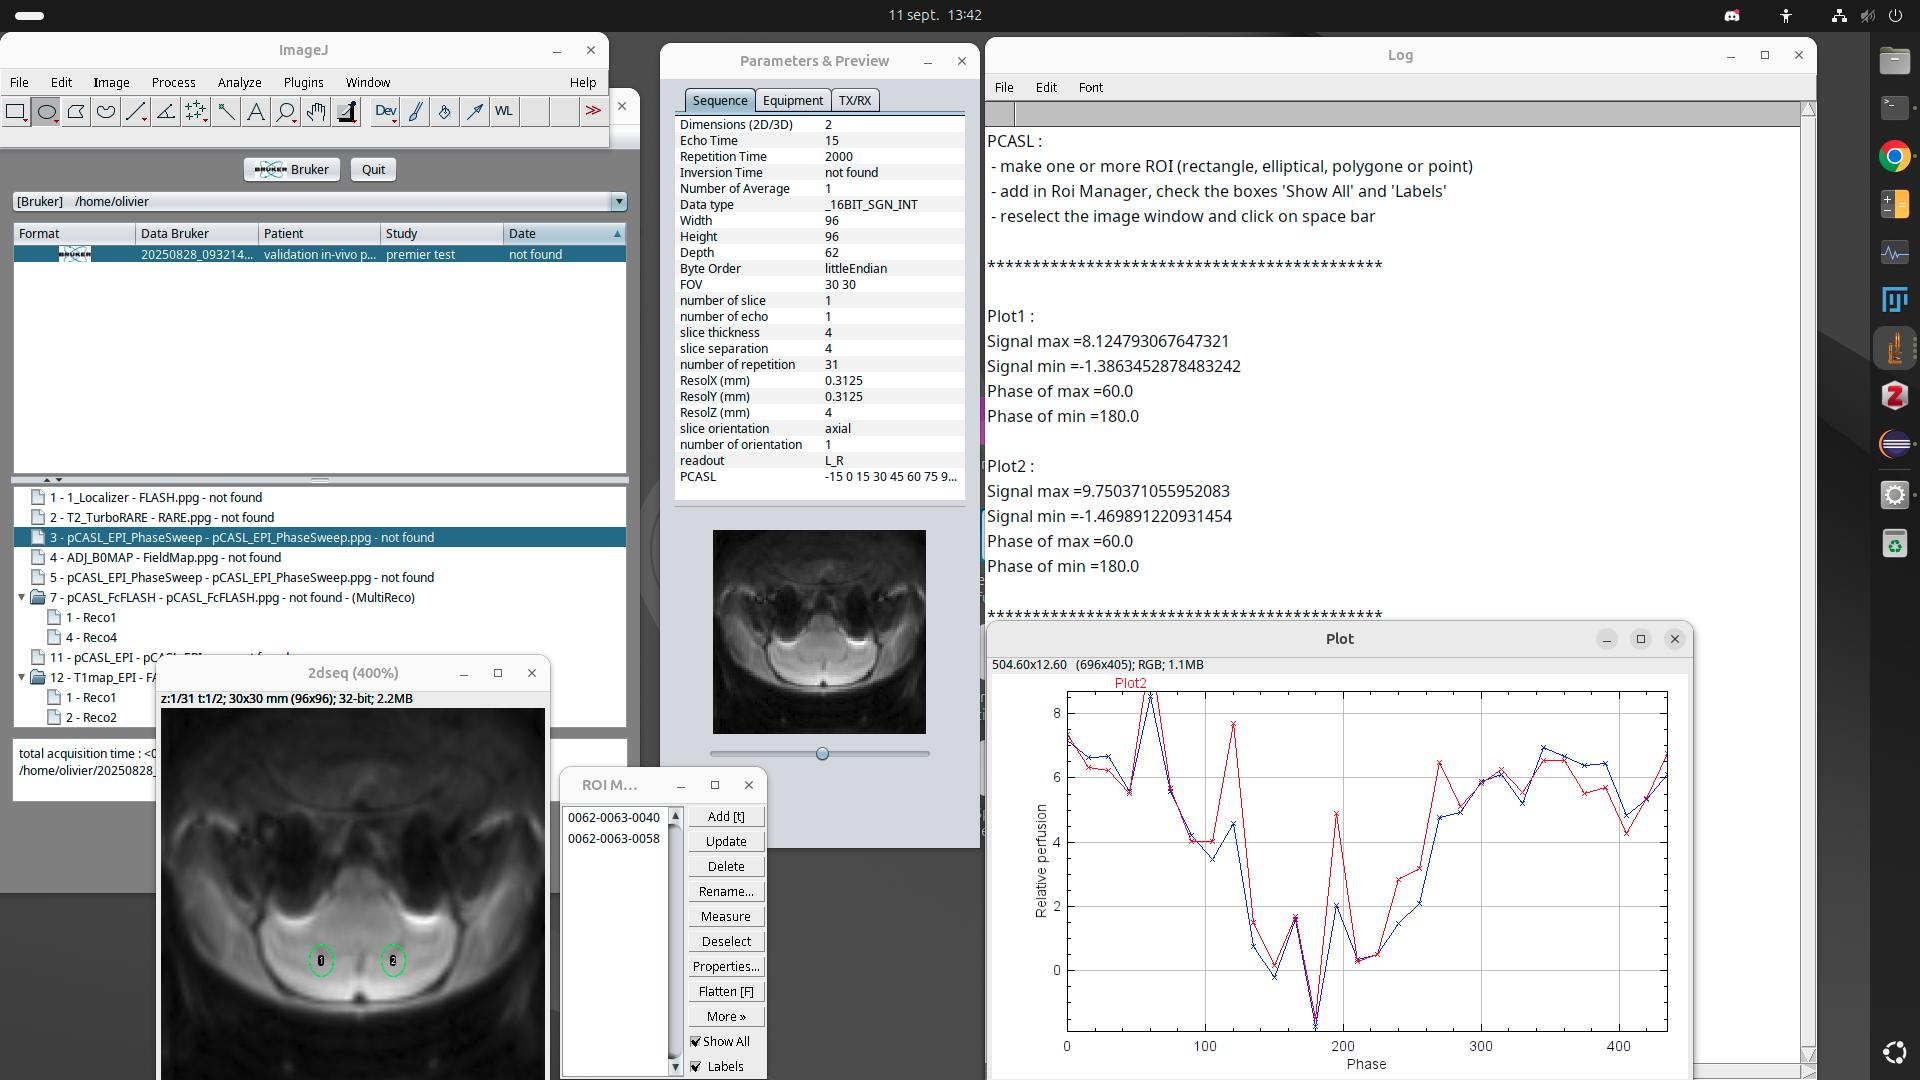
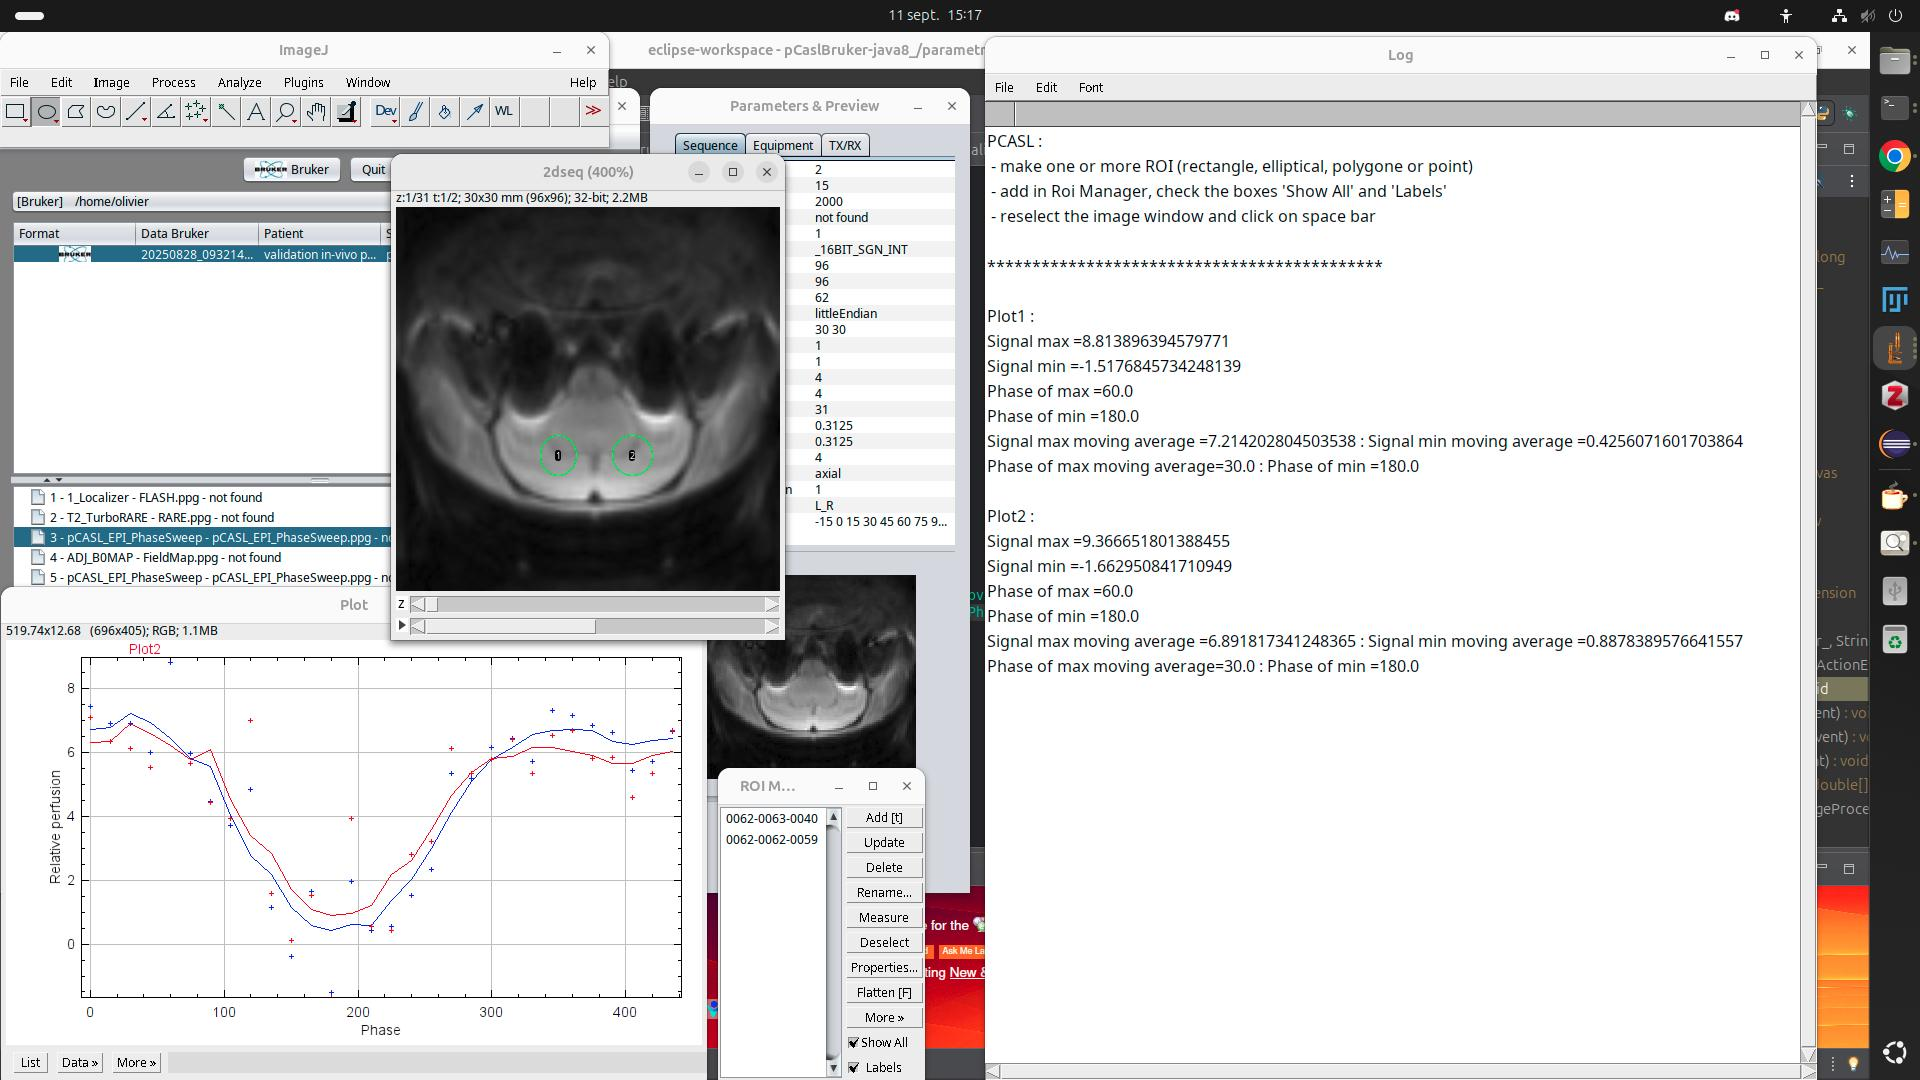
pCasl update

diff --git a/pCaslBruker-java8_/parametricCalculsp/Pcaslp.java b/pCaslBruker-java8_/parametricCalculsp/Pcaslp.java
@@ -35,7 +35,7 @@ public class Pcaslp extends AbstractAction implements KeyListener{
 	private static final long serialVersionUID = 1L;
 	private PcaslBruker_ wind;
 	private double[] x,y;
-	private double[] xoff,yoff;
+	private double[] xoff,yoff, yoff_av;
 	private ImagePlus imp;
 	private String format;
 	private ImageCanvas canvas;
@@ -102,6 +102,7 @@ public class Pcaslp extends AbstractAction implements KeyListener{
 		}
 		y = new double[x.length];
 		yoff = new double[x.length-1];
+		yoff_av = new double[x.length-1];
 		xoff = new double[x.length-1];
 
 		plotCurve = new Plot("Plot", "Phase", "Relative perfusion");
@@ -164,19 +165,19 @@ public class Pcaslp extends AbstractAction implements KeyListener{
 			yoff[a]=y[a+1];
 		}
 		
-		
+		MovingAverage mv = new MovingAverage(this.yoff, 5);
+		yoff_av = mv.getAvMo();
 		plotCurve.setColor(colors[s]);
 		plotCurve.setLineWidth(1);
-		plotCurve.addPoints(xoff, yoff,Plot.LINE);
-		plotCurve.addPoints(xoff, yoff,Plot.X);
+		plotCurve.addPoints(xoff, yoff, 5);
+		plotCurve.addPoints(xoff, yoff_av, 2);
 		plotCurve.addLabel(0, 0, space+"Plot"+(s+1));
 		space=space+"            ";
-		
-		
 		IJ.log("\nPlot"+(s+1)+" : ");
 		IJ.log("Signal max ="+ymax+"\n"+"Signal min ="+ymin);
 		IJ.log("Phase of max ="+xmax+"\n"+"Phase of min ="+xmin);
-		
+	    IJ.log("Signal max moving average =" + mv.getMaxMin()[0][1] + " : " + "Signal min moving average =" + mv.getMaxMin()[1][1]);
+	    IJ.log("Phase of max moving average=" + xoff[(int)mv.getMaxMin()[0][0]] + " : " + "Phase of min =" + xoff[(int)mv.getMaxMin()[1][0]]);		
 		}				
 		
 		if (pwin==null) {

diff --git a/pCaslBruker-java8_/parametricCalculsp/MovingAverage.java b/pCaslBruker-java8_/parametricCalculsp/MovingAverage.java
@@ -1,0 +1,50 @@
+package parametricCalculsp;
+
+public class MovingAverage {
+  private double sum = 0.0D;
+  
+  private double[] y_av;
+  
+  private double[][] max_min = new double[2][2];
+  
+  public MovingAverage(double[] yoff, int n) {
+    this.y_av = new double[yoff.length];
+    int a = n / 2;
+    for (int j = 0; j < yoff.length; j++) {
+      for (int i = 0; i < n; i++) {
+        if (j + i - a < 0) {
+          this.sum += yoff[j + i - a + yoff.length];
+        } else if (j + i - a >= yoff.length) {
+          this.sum += yoff[j + i - a - yoff.length];
+        } else {
+          this.sum += yoff[j + i - a];
+        } 
+      } 
+      this.y_av[j] = this.sum / n;
+      if (j == 0) {
+        this.max_min[0][1] = this.y_av[j];
+        this.max_min[0][0] = 0.0D;
+        this.max_min[1][1] = this.y_av[j];
+        this.max_min[1][0] = 0.0D;
+      } else {
+        if (this.y_av[j] > this.max_min[0][1]) {
+          this.max_min[0][1] = this.y_av[j];
+          this.max_min[0][0] = j;
+        } 
+        if (this.y_av[j] < this.max_min[1][1]) {
+          this.max_min[1][1] = this.y_av[j];
+          this.max_min[1][0] = j;
+        } 
+      } 
+      this.sum = 0.0D;
+    } 
+  }
+  
+  public double[] getAvMo() {
+    return this.y_av;
+  }
+  
+  public double[][] getMaxMin() {
+    return this.max_min;
+  }
+}

diff --git a/README.md b/README.md
@@ -54,6 +54,9 @@ CEST_IRM allows to trace the CEST Z-spectrum and Asymmetry profiles.
 
 # Release history
 
+    11/09/2025 : version 1.3
+        pCasl : bug with moving average fixed
+
     11/09/2025 : version 1.2
 	pCasl : first repository. Compatible with PV7.0, PV360
 
